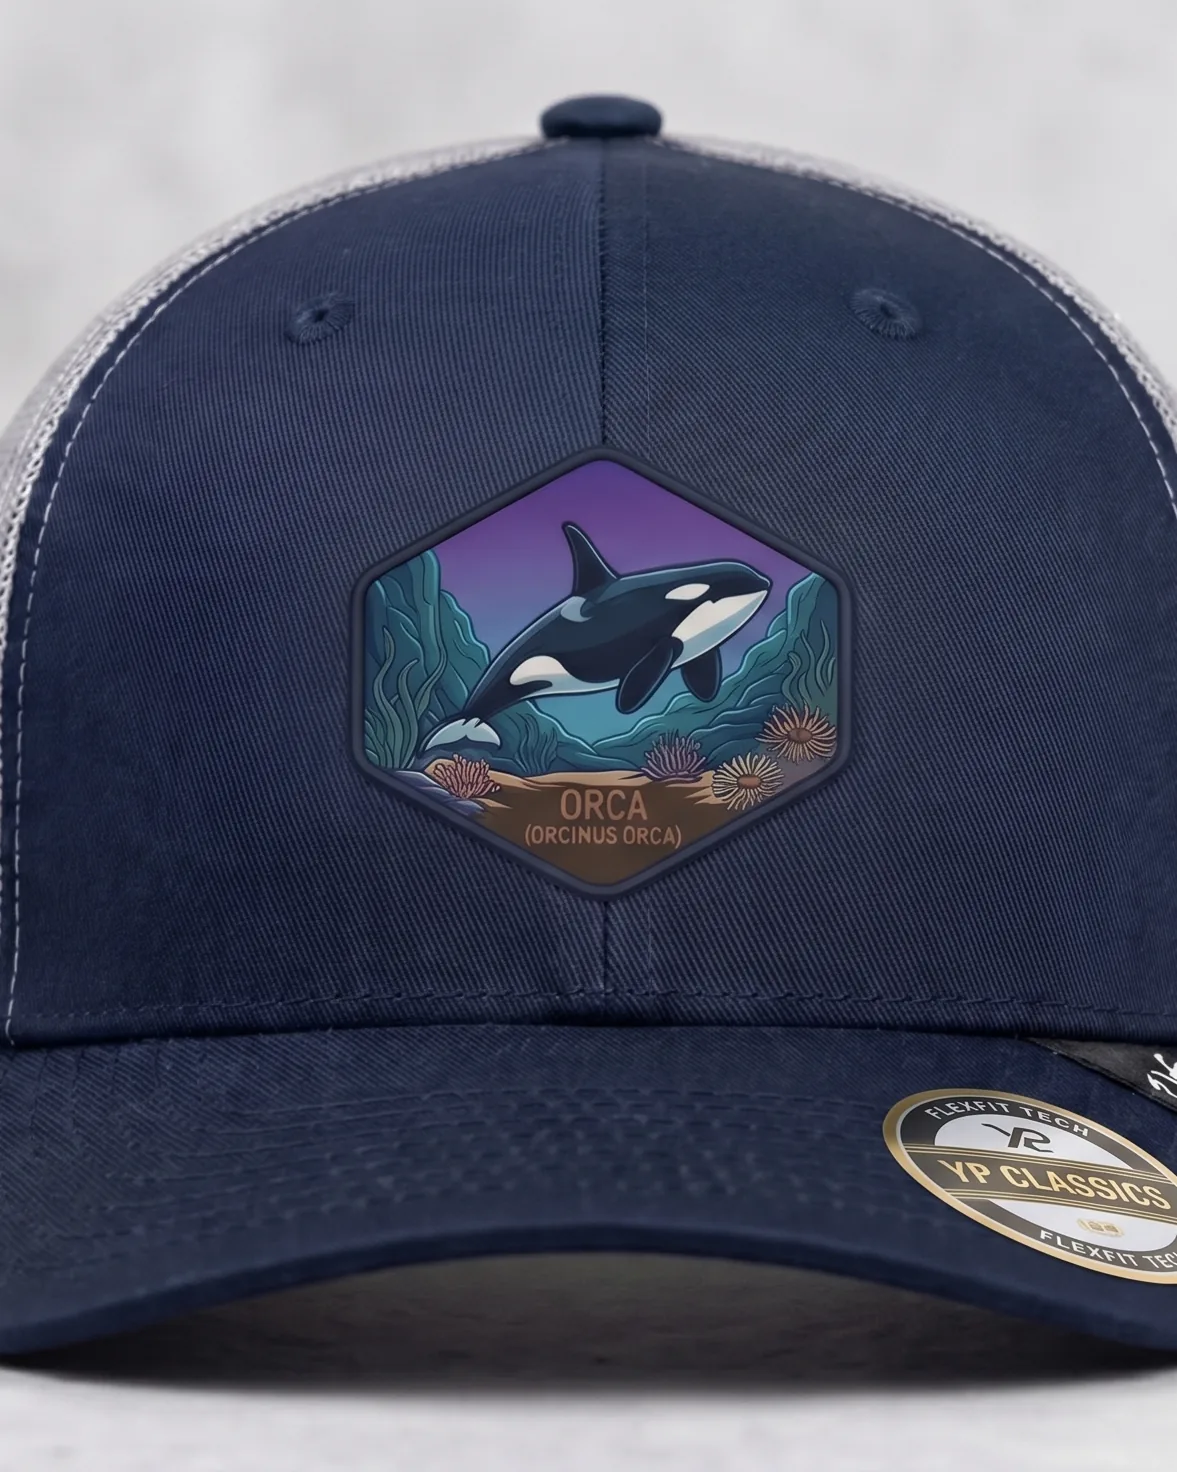
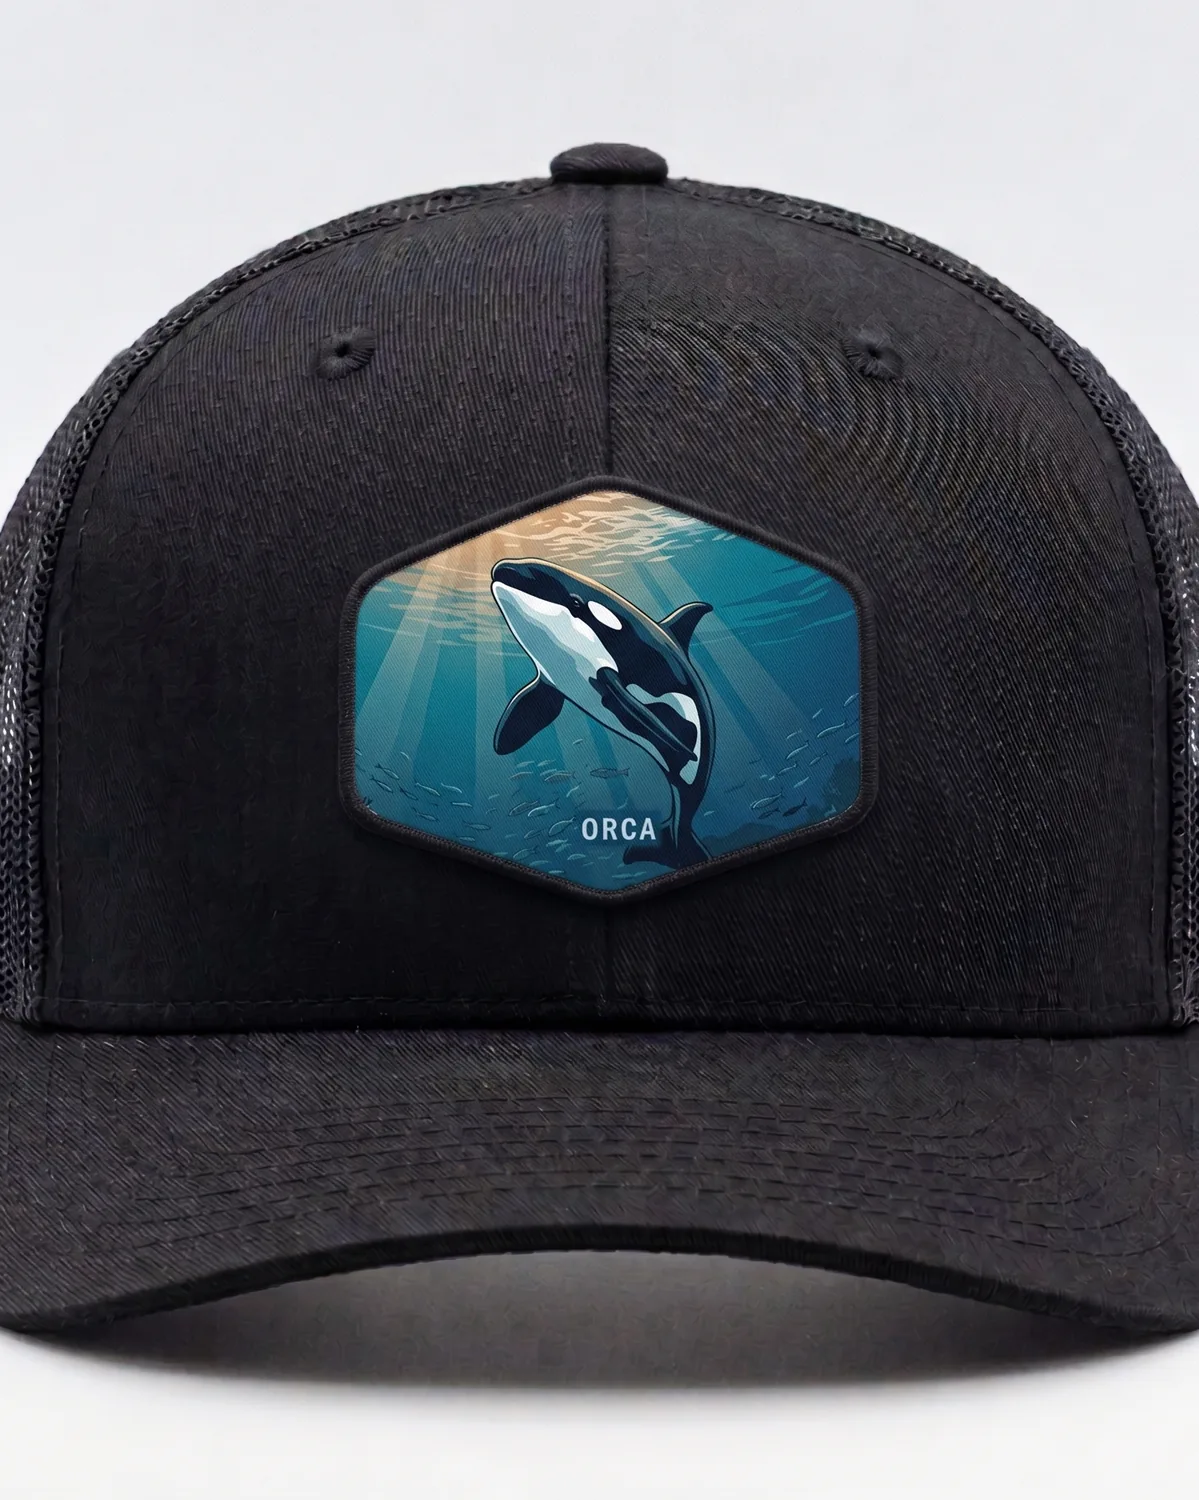
Actualiza fotos de producto y prepara despliegue en Vercel
- Reemplaza fotos de Zorro y Orca por versiones consistentes (mismo
  estudio/fondo) y agrega Jaguar y Vizcacha como productos nuevos
- El catálogo ahora solo muestra productos con foto real asociada
- Deja de versionar los originales sin comprimir (.gitignore) y agrega
  vercel.json con las cabeceras de caché/seguridad equivalentes al
  .htaccess, para el despliegue en Vercel

diff --git a/lib/manifest.js b/lib/manifest.js
@@ -383,42 +383,42 @@
       }
     },
     {
-      id: "altiplano", slug: "trucker-altiplano", name: "Culpeo Trucker Altiplano",
-      priceCLP: 26990, colorHex: { a: "#b5652f", b: "#ede0c8" }, stockStatus: "low",
-      image: null,
-      colorLabel: { es: "Terracota / Crema", en: "Terracotta / Cream", it: "Terracotta / Crema", de: "Terrakotta / Creme", fr: "Terracotta / Crème" },
+      id: "altiplano", slug: "trucker-vizcacha", name: "Culpeo Trucker Vizcacha",
+      priceCLP: 26990, colorHex: { a: "#1c1815", b: "#0f0c0a" }, stockStatus: "low",
+      image: "assets/img/products/culpeo-vizcacha.webp",
+      colorLabel: { es: "Negro", en: "Black", it: "Nero", de: "Schwarz", fr: "Noir" },
       description: {
-        es: "Terracota y crema evocando los tonos del altiplano nortino. Nuestra edición más solicitada.",
-        en: "Terracotta and cream evoking the tones of the northern altiplano. Our most requested edition.",
-        it: "Terracotta e crema che richiamano le tonalità dell'altiplano settentrionale. La nostra edizione più richiesta.",
-        de: "Terrakotta und Creme in den Farbtönen des nördlichen Altiplano. Unsere gefragteste Edition.",
-        fr: "Terracotta et crème évoquant les tons de l'altiplano du nord. Notre édition la plus demandée."
+        es: "Gorra negra con parche bordado de una vizcacha entre las rocas del altiplano. Nuestra edición más solicitada.",
+        en: "Black cap with an embroidered patch of a vizcacha resting among the altiplano's rocks. Our most requested edition.",
+        it: "Cappello nero con toppa ricamata di una vizcacha tra le rocce dell'altiplano. La nostra edizione più richiesta.",
+        de: "Schwarze Kappe mit gesticktem Patch einer Vizcacha zwischen den Felsen des Altiplano. Unsere gefragteste Edition.",
+        fr: "Casquette noire avec écusson brodé d'un viscache parmi les rochers de l'altiplano. Notre édition la plus demandée."
       }
     },
     {
-      id: "nocturno", slug: "trucker-nocturno", name: "Culpeo Trucker Nocturno",
-      priceCLP: 24990, colorHex: { a: "#161412", b: "#0e0d0b" }, stockStatus: "in-stock",
-      image: null,
-      colorLabel: { es: "Negro total", en: "All black", it: "Nero totale", de: "Ganz schwarz", fr: "Tout noir" },
+      id: "nocturno", slug: "trucker-jaguar", name: "Culpeo Trucker Jaguar",
+      priceCLP: 24990, colorHex: { a: "#1c1815", b: "#0f0c0a" }, stockStatus: "in-stock",
+      image: "assets/img/products/culpeo-jaguar.webp",
+      colorLabel: { es: "Negro", en: "Black", it: "Nero", de: "Schwarz", fr: "Noir" },
       description: {
-        es: "Negro total, sin contrastes — la versión más minimalista del catálogo.",
-        en: "All black, no contrast — the most minimal piece in the catalog.",
-        it: "Nero totale, senza contrasti — la versione più minimale del catalogo.",
-        de: "Ganz in Schwarz, ohne Kontraste — die minimalistischste Version im Katalog.",
-        fr: "Tout noir, sans contraste — la version la plus minimaliste du catalogue."
+        es: "Gorra negra con parche bordado de un jaguar asomando entre el follaje, en referencia a la selva del norte del continente.",
+        en: "Black cap with an embroidered patch of a jaguar peering through the foliage, referencing the jungle of the continent's north.",
+        it: "Cappello nero con toppa ricamata di un giaguaro che spunta tra il fogliame, in riferimento alla giungla del nord del continente.",
+        de: "Schwarze Kappe mit gesticktem Jaguar-Patch, der zwischen dem Laub hervorschaut — inspiriert vom Dschungel im Norden des Kontinents.",
+        fr: "Casquette noire avec écusson brodé d'un jaguar émergeant du feuillage, en référence à la jungle du nord du continent."
       }
     },
     {
       id: "glaciar", slug: "trucker-orca", name: "Culpeo Trucker Orca",
-      priceCLP: 26990, colorHex: { a: "#1f2d47", b: "#aeb3b8" }, stockStatus: "in-stock",
+      priceCLP: 26990, colorHex: { a: "#1c1815", b: "#0f0c0a" }, stockStatus: "in-stock",
       image: "assets/img/products/culpeo-orca.webp",
-      colorLabel: { es: "Azul Marino / Gris", en: "Navy / Grey", it: "Blu Navy / Grigio", de: "Marineblau / Grau", fr: "Bleu Marine / Gris" },
+      colorLabel: { es: "Negro", en: "Black", it: "Nero", de: "Schwarz", fr: "Noir" },
       description: {
-        es: "Gorra azul marino con malla gris y parche bordado de una orca, en referencia a las aguas frías del extremo sur.",
-        en: "Navy cap with grey mesh and an embroidered orca patch, referencing the cold waters of the far south.",
-        it: "Cappello blu navy con rete grigia e toppa ricamata di un'orca, in riferimento alle fredde acque dell'estremo sud.",
-        de: "Marineblaue Kappe mit grauem Mesh und gesticktem Orca-Patch, inspiriert von den kalten Gewässern des äußersten Südens.",
-        fr: "Casquette bleu marine à filet gris avec écusson brodé d'un orque, en référence aux eaux froides de l'extrême sud."
+        es: "Gorra negra con parche bordado de una orca emergiendo entre rayos de luz submarinos, en referencia a las aguas frías del extremo sur.",
+        en: "Black cap with an embroidered patch of an orca rising through underwater light rays, referencing the cold waters of the far south.",
+        it: "Cappello nero con toppa ricamata di un'orca che emerge tra i raggi di luce subacquei, in riferimento alle fredde acque dell'estremo sud.",
+        de: "Schwarze Kappe mit gesticktem Orca-Patch, der durch Lichtstrahlen unter Wasser auftaucht — inspiriert von den kalten Gewässern des äußersten Südens.",
+        fr: "Casquette noire avec écusson brodé d'un orque émergeant entre des rayons de lumière sous-marins, en référence aux eaux froides de l'extrême sud."
       }
     },
     {

diff --git a/main.js b/main.js
@@ -177,8 +177,9 @@
   function mountProducts() {
     $$("[data-products]").forEach(function (target) {
       if (target.children.length > 0 || !DATA.products) return;
+      var available = DATA.products.filter(function (p) { return !!p.image; });
       var limit = parseInt(target.getAttribute("data-limit") || "0", 10);
-      var list = limit ? DATA.products.slice(0, limit) : DATA.products;
+      var list = limit ? available.slice(0, limit) : available;
       target.innerHTML = list.map(productCardHTML).join("");
     });
     initCardInteractions();
